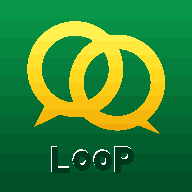
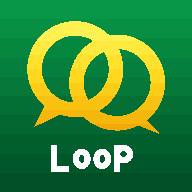
Polish Loop branding and header consistency

Changed region(s): [[0.375, 0.75, 0.7188, 0.9062], [0.25, 0.75, 0.375, 0.9062]]

diff --git a/index.html b/index.html
@@ -4,9 +4,9 @@
   <meta charset="utf-8">
 <meta name="viewport" content="width=device-width,initial-scale=1">
 <meta name="theme-color" content="#116b3a">
-<link rel="manifest" href="/manifest.webmanifest?v=3">
-<link rel="icon" type="image/png" sizes="192x192" href="/icons/icon-192.png?v=3">
-<link rel="apple-touch-icon" sizes="180x180" href="/icons/icon-180.png?v=3">
+<link rel="manifest" href="/manifest.webmanifest?v=4">
+<link rel="icon" type="image/png" sizes="192x192" href="/icons/icon-192.png?v=4">
+<link rel="apple-touch-icon" sizes="180x180" href="/icons/icon-180.png?v=4">
 <meta name="application-name" content="Loop">
 <meta name="mobile-web-app-capable" content="yes">
 <meta name="apple-mobile-web-app-capable" content="yes">
@@ -24,7 +24,7 @@
     .activity{grid-column:1/-1}.activity-list{display:grid;grid-template-columns:repeat(3,1fr);gap:12px}.activity-card{border:1px solid var(--line);border-radius:16px;padding:14px}.activity-card .place-name{font-weight:850;margin-bottom:5px}.confirm{color:var(--green);font-size:13px;font-weight:800}.activity-card p{font-size:14px;color:#4f5952;margin:8px 0}.date{font-size:12px;color:var(--muted)}
     .activity-page{display:none;min-height:100vh;padding:24px 22px 108px;background:linear-gradient(145deg,#f2f8f3,#f7f4ea)}.activity-page.active{display:block}.activity-shell{max-width:760px;margin:auto}.activity-header{display:flex;align-items:center;justify-content:space-between;margin-bottom:22px}.activity-header h1{margin:0;font-size:28px}.update-list{display:grid;gap:12px}.update{display:grid;grid-template-columns:48px 1fr auto;gap:13px;align-items:center;background:#fff;padding:16px;border-radius:18px;box-shadow:0 7px 24px #1835220d}.update-icon{width:48px;height:48px;display:grid;place-items:center;border-radius:15px;background:#e8f6ed;font-size:22px}.update b{display:block;margin-bottom:3px}.update p{margin:0;color:#59635c;font-size:14px}.update time{font-size:12px;color:var(--muted);white-space:nowrap}.activity-summary{display:grid;grid-template-columns:repeat(3,1fr);gap:10px;margin-bottom:18px}.summary-card{background:var(--green);color:#fff;border-radius:18px;padding:16px}.summary-card strong{display:block;font-size:24px}.summary-card span{font-size:12px;color:#d9f1e1}
     .bottom-nav{position:fixed;z-index:4;left:50%;bottom:0;transform:translateX(-50%);width:min(1180px,100%);display:grid;grid-template-columns:repeat(4,1fr);background:#fff;border-top:1px solid var(--line);box-shadow:0 -8px 26px #12341f14;padding:7px 8px calc(7px + env(safe-area-inset-bottom))}.bottom-nav button{border:0;background:transparent;color:#6a786e;display:flex;flex-direction:column;align-items:center;gap:2px;padding:5px 3px;border-radius:12px;font-size:12px;font-weight:800}.bottom-nav button.on{color:var(--green);background:#edf7f0}.nav-icon{font-size:22px;line-height:1.1}
-    .hero{background:#eef2ee;padding:0 0 100px}.app-header{position:sticky;top:0;z-index:2;display:grid;grid-template-columns:44px 1fr auto;align-items:center;gap:12px;background:#fff;padding:12px max(16px,calc((100vw - 1040px)/2));border-bottom:1px solid #e2e7e3}.brand-lockup{display:flex;align-items:center;gap:9px}.brand-mark{width:34px;height:34px;border-radius:11px;background:conic-gradient(from 25deg,var(--yellow),var(--red),var(--green),var(--yellow));display:grid;place-items:center;color:#fff;font-weight:950}.header-logo{font-size:28px;font-weight:950;color:var(--green);letter-spacing:-1.5px}.header-actions{display:flex;gap:8px}.icon-button{position:relative;width:42px;height:42px;border:0;border-radius:50%;background:#edf2ee;font-size:20px;color:var(--ink)}.notice-dot{position:absolute;top:-2px;right:-2px;min-width:19px;height:19px;border-radius:10px;background:var(--red);color:#fff;font-size:11px;font-weight:900;display:grid;place-items:center;border:2px solid #fff}
+    .hero{background:#eef2ee;padding:0 0 100px}.app-header{position:sticky;top:0;z-index:2;display:grid;grid-template-columns:44px 1fr auto;align-items:center;gap:12px;background:#fff;padding:12px max(16px,calc((100vw - 1040px)/2));border-bottom:1px solid #e2e7e3}.app-header>.brand-lockup{position:absolute;left:50%;transform:translateX(-50%)}.brand-lockup{display:flex;align-items:center;gap:9px}.brand-mark,.settings-brand{position:relative;overflow:hidden;width:34px;height:34px;border-radius:11px;background:linear-gradient(145deg,#159555,#075f38);display:block;flex:0 0 auto;box-shadow:inset 0 0 0 1px #ffffff24}.brand-mark .ring-a,.brand-mark .ring-b,.settings-brand .ring-a,.settings-brand .ring-b{position:absolute;border:3px solid var(--yellow);border-radius:50%;width:17px;height:17px;top:7px}.brand-mark .ring-a,.settings-brand .ring-a{left:6px}.brand-mark .ring-b,.settings-brand .ring-b{right:5px;top:11px}.brand-mark .ring-a:after,.settings-brand .ring-a:after{content:"";position:absolute;width:6px;height:5px;border-left:3px solid var(--yellow);transform:rotate(25deg);left:-2px;bottom:-3px}.brand-mark .ring-b:after,.settings-brand .ring-b:after{content:"";position:absolute;width:6px;height:5px;border-right:3px solid var(--yellow);transform:rotate(-25deg);right:-2px;bottom:-3px}.header-logo{font-size:28px;font-weight:950;color:var(--green);letter-spacing:-1.2px}.header-actions{display:flex;gap:8px}.icon-button{position:relative;width:42px;height:42px;border:0;border-radius:50%;background:#edf2ee;font-size:20px;color:var(--ink)}.notice-dot{position:absolute;top:-2px;right:-2px;min-width:19px;height:19px;border-radius:10px;background:var(--red);color:#fff;font-size:11px;font-weight:900;display:grid;place-items:center;border:2px solid #fff}
     .home-shell{max-width:1040px;margin:auto;padding:20px 16px 34px}.discovery-hero{min-height:350px;border-radius:28px;overflow:hidden;position:relative;display:grid;place-items:center;text-align:center;padding:34px 20px;background:linear-gradient(105deg,#0d3d28d9,#116b3a9e),url('https://tile.openstreetmap.org/12/1100/1640.png');background-size:cover;background-position:center;box-shadow:0 18px 44px #173b2528}.hero-content{width:min(690px,100%);color:#fff}.eyebrow{display:inline-flex;align-items:center;gap:7px;background:#ffffff1f;border:1px solid #ffffff42;border-radius:999px;padding:7px 12px;font-size:13px;font-weight:800}.hero-content h1{font-size:clamp(34px,6vw,58px);line-height:1.02;margin:14px 0 10px;letter-spacing:-2px}.hero-content>p{margin:0 auto 22px;color:#e8f4eb;font-size:16px;max-width:560px}.search{margin:0;background:#fff;border-radius:999px;padding:7px;box-shadow:0 16px 34px #061c1240}.search input{padding:13px 15px}.search button{border-radius:999px;padding:0 22px}.status{margin:10px auto 0;color:#eef8f1;min-height:18px}
     .section-head{display:flex;align-items:end;justify-content:space-between;gap:14px;margin:28px 2px 13px}.section-head h2{margin:0;font-size:23px}.section-head p{margin:4px 0 0;color:var(--muted);font-size:14px}.text-action{border:0;background:transparent;color:var(--green);font-weight:850}.category-rail{display:grid;grid-auto-flow:column;grid-auto-columns:minmax(138px,1fr);gap:11px;overflow-x:auto;padding:1px 1px 8px;scrollbar-width:none}.category-rail::-webkit-scrollbar{display:none}.category-tile{min-height:138px;border:0;border-radius:21px;padding:16px;text-align:left;color:#fff;display:flex;flex-direction:column;justify-content:space-between;box-shadow:0 9px 22px #18352218}.category-tile span{font-size:28px}.category-tile b{font-size:16px}.food{background:linear-gradient(145deg,#dc4038,#9e211e)}.health{background:linear-gradient(145deg,#178356,#075c39)}.parks{background:linear-gradient(145deg,#75a83b,#356d20)}.home-services{background:linear-gradient(145deg,#e6a91e,#bd6e0b)}.auto{background:linear-gradient(145deg,#456571,#223c46)}
     .feed-layout{display:grid;grid-template-columns:minmax(0,1.5fr) minmax(270px,.7fr);gap:18px}.feed{display:grid;gap:14px}.feed-card,.side-card{background:#fff;border:1px solid #e0e6e1;border-radius:22px;box-shadow:0 7px 24px #1835220b}.feed-card{overflow:hidden}.feed-top{display:grid;grid-template-columns:46px 1fr auto;gap:11px;align-items:center;padding:17px}.feed-avatar{width:46px;height:46px;border-radius:50%;display:grid;place-items:center;background:linear-gradient(145deg,var(--yellow),#f0a21d);font-weight:900;color:#233729;border:3px solid #edf7f0}.feed-user b{display:block}.feed-user small{color:var(--muted)}.rep-pill{background:#e9f6ed;color:var(--green);border-radius:999px;padding:6px 9px;font-size:12px;font-weight:850}.place-banner{padding:20px;background:linear-gradient(130deg,#edf8ef,#fff9dc);border-block:1px solid #e4eadf}.place-line{display:flex;justify-content:space-between;gap:12px;align-items:start}.place-line h3{margin:0;font-size:22px}.loop-score{background:var(--green);color:white;border-radius:14px;padding:8px 10px;text-align:center;font-weight:900}.loop-score small{display:block;font-size:9px;font-weight:700;color:#d9f0df}.feed-copy{padding:17px}.feed-copy p{margin:0 0 14px;line-height:1.55}.feedback-row{display:flex;border-top:1px solid #e5e9e6}.feedback-row button{flex:1;border:0;background:#fff;padding:12px;color:#536057;font-weight:800}.feedback-row button+button{border-left:1px solid #e5e9e6}.side-stack{display:grid;gap:14px;align-content:start}.side-card{padding:18px}.side-card h3{margin:0 0 4px}.side-card p{font-size:14px;color:var(--muted);line-height:1.45}.pulse-row{display:flex;align-items:center;justify-content:space-between;padding:10px 0;border-top:1px solid #e6ebe7}.pulse-row strong{color:var(--green)}.create-prompt{display:flex;gap:10px;align-items:center;background:#fff;padding:13px;border-radius:18px;border:1px solid #e0e6e1;margin-bottom:14px}.mini-avatar{width:40px;height:40px;border-radius:50%;display:grid;place-items:center;background:var(--green);color:#fff;font-weight:900}.prompt-button{flex:1;border:1px solid #d6ddd7;background:#f7f9f7;border-radius:999px;padding:11px 15px;text-align:left;color:#667069}
@@ -32,7 +32,7 @@
     .drawer-legal{padding:14px 0 18px;background:#fbfcfb}.drawer-legal .drawer-link{color:var(--green);font-weight:850}.drawer-version{padding:2px 20px 0 20px;color:#8b958e;font-size:11px;font-weight:700;letter-spacing:.02em}
     .about-page{display:none;min-height:100vh;background:linear-gradient(145deg,#eef5ef,#f7f3e7);padding:0 0 108px}.about-page.active{display:block}.about-shell{max-width:900px;margin:auto;padding:20px 16px 42px}.about-hero{position:relative;overflow:hidden;border-radius:30px;padding:38px;color:#fff;background:linear-gradient(125deg,#0b3d27,#147847 62%,#1a8b52);box-shadow:var(--shadow)}.about-hero:after{content:"L";position:absolute;right:-18px;bottom:-62px;font-size:240px;line-height:1;font-weight:950;color:#ffffff0c;transform:rotate(-8deg);pointer-events:none}.about-kicker{display:inline-flex;align-items:center;gap:7px;background:#ffffff18;border:1px solid #ffffff38;border-radius:999px;padding:7px 11px;font-size:12px;font-weight:850;letter-spacing:.04em;text-transform:uppercase}.about-hero h1{position:relative;z-index:1;font-size:clamp(36px,6vw,58px);line-height:1;margin:16px 0 12px;letter-spacing:-2px}.about-hero p{position:relative;z-index:1;max-width:660px;margin:0;color:#e9f5ec;font-size:17px;line-height:1.6}.about-badge{position:relative;z-index:1;display:inline-block;margin-top:20px;background:var(--yellow);color:#493800;border-radius:999px;padding:8px 11px;font-size:12px;font-weight:900}.about-grid{display:grid;grid-template-columns:1fr 1fr;gap:14px;margin-top:16px}.about-card,.legal-card,.alpha-notice{background:#fff;border:1px solid var(--line);border-radius:22px;padding:22px;box-shadow:0 7px 24px #1835220b}.about-card .overline,.legal-card .overline{font-size:11px;font-weight:900;color:var(--green);letter-spacing:.12em;text-transform:uppercase}.about-card h2,.legal-card h2{margin:8px 0 9px;font-size:21px}.about-card p,.legal-card p,.alpha-notice p{margin:0;color:#566159;line-height:1.65}.legal-card{margin-top:14px}.legal-card p+p{margin-top:12px}.legal-mark{display:inline-flex;align-items:center;gap:8px;background:#edf7f0;color:var(--green);border-radius:999px;padding:7px 10px;font-size:12px;font-weight:900;margin:2px 0 14px}.legal-points{display:grid;grid-template-columns:repeat(3,1fr);gap:10px;margin-top:16px}.legal-point{border:1px solid var(--line);border-radius:16px;padding:14px;background:#fbfcfb}.legal-point b{display:block;margin-bottom:5px;font-size:13px}.legal-point span{font-size:12px;color:var(--muted);line-height:1.45}.alpha-notice{margin-top:14px;background:#fffaf0;border-color:#eee2bd}.alpha-notice strong{display:block;margin-bottom:7px;color:#705600}.about-footer{text-align:center;color:#7b867e;font-size:12px;padding:22px 8px 0}.about-footer b{color:var(--green)}
     .policy-page{display:none;min-height:100vh;background:linear-gradient(145deg,#eef4ef,#f8f6ef);padding:0 0 108px}.policy-page.active{display:block}.policy-shell{max-width:900px;margin:auto;padding:20px 16px 46px}.policy-hero{background:#fff;border:1px solid var(--line);border-radius:26px;padding:28px;box-shadow:0 9px 28px #1835220c}.policy-hero .overline{font-size:11px;font-weight:900;color:var(--green);letter-spacing:.12em;text-transform:uppercase}.policy-hero h1{margin:8px 0 8px;font-size:clamp(32px,5vw,48px);letter-spacing:-1.5px}.policy-meta{display:flex;gap:8px;flex-wrap:wrap;margin-top:14px}.policy-pill{display:inline-flex;border-radius:999px;padding:7px 10px;background:#edf7f0;color:var(--green);font-size:12px;font-weight:850}.policy-pill.alpha{background:#fff4c8;color:#725400}.policy-intro{color:#566159;line-height:1.65;max-width:760px;margin:0}.policy-card{background:#fff;border:1px solid var(--line);border-radius:20px;padding:22px;margin-top:13px}.policy-card h2{font-size:20px;margin:0 0 8px}.policy-card h3{font-size:15px;margin:18px 0 6px}.policy-card p,.policy-card li{color:#566159;line-height:1.65}.policy-card p{margin:7px 0}.policy-card ul{padding-left:20px;margin:9px 0}.policy-card li+li{margin-top:7px}.policy-note{background:#fffaf0;border:1px solid #eee2bd;border-radius:18px;padding:16px 18px;margin-top:13px;color:#68551d;line-height:1.55}.policy-note strong{color:#5c4700}.policy-links{display:flex;gap:9px;flex-wrap:wrap;margin-top:16px}.policy-links button{border:1px solid #cfd9d1;background:#f8faf8;color:var(--green);border-radius:12px;padding:10px 12px;font-weight:850}.policy-footer{text-align:center;color:#7b867e;font-size:12px;padding:22px 8px 0}
-    .settings-page{display:none;min-height:100vh;background:#0d1511;color:#f5f7f5;padding:0 0 108px}.settings-page.active{display:block}.settings-header{position:sticky;top:0;z-index:3;display:grid;grid-template-columns:48px 1fr 48px;align-items:center;background:#0d1511eF;backdrop-filter:blur(12px);border-bottom:1px solid #ffffff10;padding:13px max(16px,calc((100vw - 760px)/2))}.settings-back{width:42px;height:42px;border:0;border-radius:50%;background:transparent;color:#f7faf7;font-size:28px;display:grid;place-items:center}.settings-header h1{margin:0;font-size:25px;font-weight:800;letter-spacing:-.5px}.settings-brand{width:38px;height:38px;border-radius:13px;background:conic-gradient(from 25deg,var(--yellow),var(--red),var(--green),var(--yellow));display:grid;place-items:center;font-weight:950;color:white}.settings-shell{max-width:760px;margin:auto;padding:20px 20px 48px}.settings-intro{padding:18px 0 28px}.settings-intro .loop-word{font-size:34px;font-weight:950;color:#fff;letter-spacing:-1.8px}.settings-intro p{margin:7px 0 0;color:#9aa69f;line-height:1.5}.settings-group{border-top:1px solid #ffffff12;padding:18px 0 8px}.settings-group:first-of-type{border-top:0;padding-top:0}.settings-group-label{font-size:13px;color:#89958e;margin:0 0 8px 68px}.settings-row{width:100%;display:grid;grid-template-columns:48px 1fr 24px;gap:17px;align-items:center;border:0;background:transparent;color:#f6f8f6;text-align:left;padding:14px 0}.settings-row:hover{background:#ffffff05}.settings-icon{width:44px;height:44px;border:1px solid #44524a;border-radius:50%;display:grid;place-items:center;color:#9facA4;font-size:21px}.settings-copy b{display:block;font-size:17px;font-weight:700}.settings-copy small{display:block;margin-top:4px;color:#89958e;font-size:14px;line-height:1.35}.settings-chevron{color:#647169;font-size:24px;text-align:right}.settings-footer{border-top:1px solid #ffffff12;margin-top:20px;padding:25px 0 10px;color:#8f9b94;font-size:13px;line-height:1.6}.settings-footer b{color:#d8ded9}.settings-footer .legal-line{display:flex;justify-content:space-between;gap:18px;align-items:end}.settings-footer .version{color:#6f7c74;margin-top:7px}.trust-page{display:none;min-height:100vh;background:linear-gradient(145deg,#eef4ef,#f8f6ef);padding:0 0 108px}.trust-page.active{display:block}.trust-grid{display:grid;grid-template-columns:1fr 1fr;gap:13px;margin-top:13px}.trust-card{background:#fff;border:1px solid var(--line);border-radius:20px;padding:20px}.trust-icon{width:42px;height:42px;border-radius:14px;background:#e9f6ed;color:var(--green);display:grid;place-items:center;font-size:20px;font-weight:900;margin-bottom:12px}.trust-card h2{font-size:18px;margin:0 0 7px}.trust-card p{margin:0;color:#566159;line-height:1.58;font-size:14px}
+    .settings-page{display:none;min-height:100vh;background:#0d1511;color:#f5f7f5;padding:0 0 108px}.settings-page.active{display:block}.settings-header{position:sticky;top:0;z-index:3;display:grid;grid-template-columns:48px 1fr 48px;align-items:center;background:#0d1511eF;backdrop-filter:blur(12px);border-bottom:1px solid #ffffff10;padding:13px max(16px,calc((100vw - 760px)/2))}.settings-back{width:42px;height:42px;border:0;border-radius:50%;background:transparent;color:#f7faf7;font-size:28px;display:grid;place-items:center}.settings-header h1{margin:0;font-size:25px;font-weight:800;letter-spacing:-.5px}.settings-brand{width:38px;height:38px;border-radius:13px}.settings-brand .ring-a,.settings-brand .ring-b{width:19px;height:19px;border-width:3px}.settings-brand .ring-a{left:6px;top:8px}.settings-brand .ring-b{right:5px;top:12px}.settings-shell{max-width:760px;margin:auto;padding:20px 20px 48px}.settings-intro{padding:18px 0 28px}.settings-intro .loop-word{font-size:34px;font-weight:950;color:#fff;letter-spacing:-1.8px}.settings-intro p{margin:7px 0 0;color:#9aa69f;line-height:1.5}.settings-group{border-top:1px solid #ffffff12;padding:18px 0 8px}.settings-group:first-of-type{border-top:0;padding-top:0}.settings-group-label{font-size:13px;color:#89958e;margin:0 0 8px 68px}.settings-row{width:100%;display:grid;grid-template-columns:48px 1fr 24px;gap:17px;align-items:center;border:0;background:transparent;color:#f6f8f6;text-align:left;padding:14px 0}.settings-row:hover{background:#ffffff05}.settings-icon{width:44px;height:44px;border:1px solid #44524a;border-radius:50%;display:grid;place-items:center;color:#9facA4;font-size:21px}.settings-copy b{display:block;font-size:17px;font-weight:700}.settings-copy small{display:block;margin-top:4px;color:#89958e;font-size:14px;line-height:1.35}.settings-chevron{color:#647169;font-size:24px;text-align:right}.settings-footer{border-top:1px solid #ffffff12;margin-top:20px;padding:25px 0 10px;color:#8f9b94;font-size:13px;line-height:1.6}.settings-footer b{color:#d8ded9}.settings-footer .legal-line{display:flex;justify-content:space-between;gap:18px;align-items:end}.settings-footer .version{color:#6f7c74;margin-top:7px}.trust-page{display:none;min-height:100vh;background:linear-gradient(145deg,#eef4ef,#f8f6ef);padding:0 0 108px}.trust-page.active{display:block}.trust-grid{display:grid;grid-template-columns:1fr 1fr;gap:13px;margin-top:13px}.trust-card{background:#fff;border:1px solid var(--line);border-radius:20px;padding:20px}.trust-icon{width:42px;height:42px;border-radius:14px;background:#e9f6ed;color:var(--green);display:grid;place-items:center;font-size:20px;font-weight:900;margin-bottom:12px}.trust-card h2{font-size:18px;margin:0 0 7px}.trust-card p{margin:0;color:#566159;line-height:1.58;font-size:14px}
     .place-page,.saved-page{display:none;min-height:100vh;background:#f1f4f1;padding:0 0 108px}.place-page.active,.saved-page.active{display:block}.detail-header{background:#fff;border-bottom:1px solid var(--line);padding:12px max(16px,calc((100vw - 900px)/2));display:flex;align-items:center;justify-content:space-between;position:sticky;top:0;z-index:2}.detail-shell{max-width:900px;margin:auto;padding:18px 16px}.place-cover{min-height:260px;border-radius:28px;padding:28px;display:flex;align-items:flex-end;color:white;background:linear-gradient(135deg,#0b3325cc,#13824dcc),url('https://tile.openstreetmap.org/12/1100/1640.png');background-size:cover;box-shadow:var(--shadow)}.place-cover h1{font-size:clamp(32px,6vw,52px);margin:0 0 7px;letter-spacing:-1px}.place-cover p{margin:0;color:#e4f5e9}.detail-grid{display:grid;grid-template-columns:1.2fr .8fr;gap:16px;margin-top:16px}.detail-card{background:#fff;border:1px solid var(--line);border-radius:22px;padding:20px}.score-line{display:flex;align-items:center;gap:13px}.score-big{width:74px;height:74px;border-radius:20px;background:var(--green);color:#fff;display:grid;place-items:center;font-size:28px;font-weight:950}.score-copy b,.score-copy small{display:block}.score-copy small{color:var(--muted);margin-top:4px}.trust-list{padding:0;list-style:none;margin:15px 0 0}.trust-list li{padding:11px 0;border-top:1px solid var(--line);display:flex;justify-content:space-between;gap:12px}.place-actions{display:grid;grid-template-columns:1fr 1fr;gap:10px;margin-top:16px}.place-actions button{border:0;border-radius:14px;padding:12px;font-weight:850}.save-action{background:#fff4c8;color:#6b4b00}.experience-action{background:var(--green);color:#fff}.experience-card{margin-top:12px;border-top:1px solid var(--line);padding-top:14px}.experience-card p{line-height:1.5;margin:8px 0}.saved-list{display:grid;gap:12px}.saved-item{background:#fff;border:1px solid var(--line);border-radius:19px;padding:17px;display:flex;align-items:center;justify-content:space-between;gap:12px}.saved-item h3{margin:0 0 4px}.saved-empty{text-align:center;background:#fff;border-radius:22px;padding:44px 20px;color:var(--muted)}.feedback-row button.selected{background:#e5f5ea;color:var(--green)}.feedback-row button.negative.selected{background:#fff0ee;color:#b9362f}.toast{position:fixed;z-index:10;left:50%;bottom:90px;transform:translate(-50%,20px);background:#17221b;color:#fff;padding:11px 16px;border-radius:999px;font-weight:750;opacity:0;pointer-events:none;transition:.2s}.toast.show{opacity:1;transform:translate(-50%,0)}textarea,select{font:inherit}.field textarea,.field select{width:100%;border:1px solid #cdd7cf;border-radius:12px;padding:12px;background:#fff}.field textarea{min-height:120px;resize:vertical}.rating-choice{display:grid;grid-template-columns:repeat(5,1fr);gap:7px}.rating-choice button{border:1px solid #cdd7cf;background:#fff;border-radius:10px;padding:9px 3px;font-weight:850}.rating-choice button.on{background:var(--green);color:#fff;border-color:var(--green)}
     dialog{border:0;border-radius:22px;padding:0;max-width:520px;width:calc(100% - 32px);box-shadow:0 24px 70px #0004}dialog::backdrop{background:#0e1f1780}.dialog-inner{padding:24px}.dialog-inner h2{margin-top:0}.field{margin:14px 0}.field label{display:block;font-size:13px;font-weight:800;margin-bottom:6px}.field input{width:100%;border:1px solid #cdd7cf;border-radius:12px;padding:12px}.dialog-actions{display:flex;justify-content:flex-end;gap:10px;margin-top:20px}.secondary,.primary{border:0;border-radius:12px;padding:10px 14px;font-weight:800}.secondary{background:#edf1ed}.primary{background:var(--green);color:white}
     @media(max-width:760px){.app-header{padding:10px 13px}.header-logo{font-size:26px}.header-actions .icon-button:first-child{display:none}.home-shell{padding:12px 0 24px}.discovery-hero{border-radius:0;min-height:335px;padding:28px 17px}.hero-content h1{font-size:40px}.search button{padding:0 16px}.section-head{padding:0 16px;margin-top:24px}.category-rail{padding:1px 16px 8px;grid-auto-columns:145px}.feed-layout{grid-template-columns:1fr}.side-stack{padding:0 13px}.create-prompt{margin:0 13px 13px}.feed-card{border-radius:0;border-inline:0}.feed-layout>.feed{gap:10px}.profile-page,.activity-page{padding:14px 14px 102px}.profile-hero{grid-template-columns:auto 1fr;padding:20px}.score-ring{grid-column:1/-1;width:100%;height:auto;border-radius:16px;background:#ffffff18;padding:13px}.score-ring:after{display:none}.score-value{display:flex;justify-content:center;gap:8px;align-items:baseline}.score-value small{display:inline}.profile-grid,.detail-grid,.about-grid{grid-template-columns:1fr}.legal-points{grid-template-columns:1fr}.about-shell{padding:0 0 34px}.about-hero{border-radius:0;padding:32px 20px}.about-grid,.legal-card,.alpha-notice{margin-left:13px;margin-right:13px}.policy-shell{padding:0 0 34px}.policy-hero{border-radius:0;padding:26px 18px}.policy-card,.policy-note{margin-left:13px;margin-right:13px}.activity-list{grid-template-columns:1fr}.identity h1{font-size:22px}.avatar{width:68px;height:68px}.activity{grid-column:auto}.activity-summary{grid-template-columns:1fr 1fr}.summary-card:last-child{grid-column:1/-1}.update{grid-template-columns:44px 1fr}.update time{grid-column:2}.bottom-nav{border-radius:0}.place-cover{border-radius:0;margin:0 -16px;min-height:235px}.detail-shell{padding-top:0}}
@@ -45,8 +45,8 @@
 <aside id="drawer" class="drawer" aria-label="Main menu">
 <div class="drawer-head">
 <div class="brand-lockup">
-<span class="brand-mark">L</span>
-<span class="header-logo">loop</span>
+<span class="brand-mark" aria-label="Loop"><span class="ring-a"></span><span class="ring-b"></span></span>
+<span class="header-logo">Loop</span>
 </div>
 <button class="close" onclick="closeMenu()" aria-label="Close menu">×</button>
 </div>
@@ -111,8 +111,8 @@
 <header class="app-header">
 <button class="menu" onclick="openMenu()" aria-label="Open menu">☰</button>
 <div class="brand-lockup">
-<span class="brand-mark">L</span>
-<span class="header-logo">loop</span>
+<span class="brand-mark" aria-label="Loop"><span class="ring-a"></span><span class="ring-b"></span></span>
+<span class="header-logo">Loop</span>
 </div>
 <div class="header-actions">
 <button class="icon-button" onclick="showExplore()" aria-label="Search">⌕</button>
@@ -263,10 +263,10 @@
 </div>
 </main>
 <section id="placePage" class="place-page" aria-labelledby="placeTitle">
-<header class="detail-header"><button class="back" onclick="showHome()">← Back</button><div class="brand-lockup"><span class="brand-mark">L</span><span class="header-logo">loop</span></div><button id="detailSave" class="edit" onclick="toggleSave(currentPlace,this)">♡ Save</button></header>
+<header class="detail-header"><button class="back" onclick="showHome()">← Back</button><div class="brand-lockup"><span class="brand-mark" aria-label="Loop"><span class="ring-a"></span><span class="ring-b"></span></span><span class="header-logo">Loop</span></div><button id="detailSave" class="edit" onclick="toggleSave(currentPlace,this)">♡ Save</button></header>
 <div class="detail-shell"><div class="place-cover"><div><span id="placeCategory" class="eyebrow">Restaurant · Fort Lauderdale</span><h1 id="placeTitle">Harbor Kitchen</h1><p id="placeAddress">Waterfront dining inside your South Florida Loop</p></div></div><div class="detail-grid"><section class="detail-card"><div class="score-line"><span id="placeScore" class="score-big">9.1</span><span class="score-copy"><b>Loop Rating</b><small id="placeConfidence">High confidence · 126 experiences</small></span></div><ul class="trust-list"><li><span>Would return</span><strong id="returnRate">94%</strong></li><li><span>Matches expectations</span><strong id="matchRate">91%</strong></li><li><span>Recent community activity</span><strong>High</strong></li></ul><div class="place-actions"><button id="profileSave" class="save-action" onclick="toggleSave(currentPlace,this)">♡ Save place</button><button class="experience-action" onclick="openExperience(currentPlace)">＋ Add experience</button></div></section><section class="detail-card"><h2>What your Loop says</h2><p class="panel-note">Recent experiences are weighted with reviewer reputation and recency.</p><div id="placeExperiences"></div></section></div></div>
 </section>
-<section id="savedPage" class="saved-page" aria-labelledby="savedTitle"><header class="detail-header"><button class="back" onclick="showHome()">← Home</button><div class="brand-lockup"><span class="brand-mark">L</span><span class="header-logo">loop</span></div><span></span></header><div class="detail-shell"><h1 id="savedTitle">Saved places</h1><p class="panel-note">Your shortlist stays on this device while you explore Loop.</p><div id="savedList" class="saved-list"></div></div></section>
+<section id="savedPage" class="saved-page" aria-labelledby="savedTitle"><header class="detail-header"><button class="back" onclick="showHome()">← Home</button><div class="brand-lockup"><span class="brand-mark" aria-label="Loop"><span class="ring-a"></span><span class="ring-b"></span></span><span class="header-logo">Loop</span></div><span></span></header><div class="detail-shell"><h1 id="savedTitle">Saved places</h1><p class="panel-note">Your shortlist stays on this device while you explore Loop.</p><div id="savedList" class="saved-list"></div></div></section>
 <section id="profile" class="profile-page" aria-labelledby="profileName">
 <div class="profile-shell">
 <div class="profile-nav">
@@ -451,11 +451,11 @@
 <header class="settings-header">
 <button class="settings-back" onclick="showHome()" aria-label="Back to Loop">←</button>
 <h1 id="settingsTitle">Help &amp; Privacy</h1>
-<span class="settings-brand" aria-label="Loop">L</span>
+<span class="settings-brand" aria-label="Loop"><span class="ring-a"></span><span class="ring-b"></span></span>
 </header>
 <div class="settings-shell">
 <div class="settings-intro">
-<div class="loop-word">loop</div>
+<div class="loop-word">Loop</div>
 <p>Support, privacy, safety, and information about your Loop Alpha experience.</p>
 </div>
 
@@ -515,7 +515,7 @@
 <section id="trustPage" class="trust-page" aria-labelledby="trustTitle">
 <header class="detail-header">
 <button class="back" onclick="showSettings()">← Settings</button>
-<div class="brand-lockup"><span class="brand-mark">L</span><span class="header-logo">loop</span></div>
+<div class="brand-lockup"><span class="brand-mark" aria-label="Loop"><span class="ring-a"></span><span class="ring-b"></span></span><span class="header-logo">Loop</span></div>
 <span class="meta">Trust &amp; Safety</span>
 </header>
 <div class="policy-shell">
@@ -538,7 +538,7 @@
 <section id="aboutPage" class="about-page" aria-labelledby="aboutTitle">
 <header class="detail-header">
 <button class="back" onclick="showSettings()">← Settings</button>
-<div class="brand-lockup"><span class="brand-mark">L</span><span class="header-logo">loop</span></div>
+<div class="brand-lockup"><span class="brand-mark" aria-label="Loop"><span class="ring-a"></span><span class="ring-b"></span></span><span class="header-logo">Loop</span></div>
 <span class="meta">About &amp; Legal</span>
 </header>
 <div class="about-shell">
@@ -583,7 +583,7 @@
 <section id="privacyPage" class="policy-page" aria-labelledby="privacyTitle">
 <header class="detail-header">
 <button class="back" onclick="showSettings()">← Settings</button>
-<div class="brand-lockup"><span class="brand-mark">L</span><span class="header-logo">loop</span></div>
+<div class="brand-lockup"><span class="brand-mark" aria-label="Loop"><span class="ring-a"></span><span class="ring-b"></span></span><span class="header-logo">Loop</span></div>
 <span class="meta">Privacy Policy</span>
 </header>
 <div class="policy-shell">
@@ -617,7 +617,7 @@
 <section id="termsPage" class="policy-page" aria-labelledby="termsTitle">
 <header class="detail-header">
 <button class="back" onclick="showSettings()">← Settings</button>
-<div class="brand-lockup"><span class="brand-mark">L</span><span class="header-logo">loop</span></div>
+<div class="brand-lockup"><span class="brand-mark" aria-label="Loop"><span class="ring-a"></span><span class="ring-b"></span></span><span class="header-logo">Loop</span></div>
 <span class="meta">Terms of Use</span>
 </header>
 <div class="policy-shell">

diff --git a/sw.js b/sw.js
@@ -1,4 +1,4 @@
-const CACHE_NAME = 'loop-alpha-v3';
+const CACHE_NAME = 'loop-alpha-v4';
 const APP_SHELL = [
   '/',
   '/index.html',
